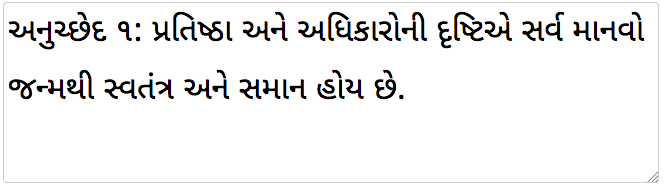
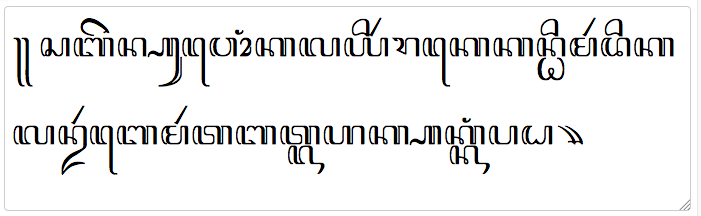
javanese new

Changed region(s): [[0.0, 0.0, 0.994, 0.8065], [0.0, 0.914, 0.994, 0.9946]]

diff --git a/javanese/help/index.html b/javanese/help/index.html
@@ -2,7 +2,7 @@
 <html lang="en-gb">
 <head>
 <meta charset="UTF-8" />
-<title>Help for Gujarati character picker 20</title>
+<title>Help for Javanese character picker 20</title>
 <link rel="stylesheet" href="../../../shared/style/docs.css" type="text/css" />
 <link rel="stylesheet" type="text/css" href="../../shared20/style.css" />
 <link rel="stylesheet" type="text/css" href="../localstyle.css" />
@@ -13,7 +13,7 @@
 <body class="app notes">
 <header>
   <div id="header-boilerplate"></div>
-  <script>document.getElementById('header-boilerplate').innerHTML = bp_appHeader('/shared/images/world.gif','Gujarati picker','');</script> 
+  <script>document.getElementById('header-boilerplate').innerHTML = bp_appHeader('/shared/images/world.gif','Javanese picker','');</script> 
 </header>
 
 
@@ -25,16 +25,16 @@
   <div id="toc"><!-- placeholder --></div>
   <div class="noprint">
         <h2 class="notoc"><a id="links" tabindex="5">Related links</a></h2>
-        <p><a href="/scripts/links?script=gujarati">Gujarati script links</a></p>
+        <p><a href="/scripts/links?script=javanese">Javanese script links</a></p>
         <p><a href="/pickers/">List of pickers </a></p>
   </div>
 </aside>     
 
-<p id="status">Updated  <!-- #BeginDate format:En2 -->16-Aug-2017<!-- #EndDate --> • tags <a href="http://rishida.net/blog/?tag=apps" title="Show all blog posts tagged with 'apps'">apps</a>, <a href="http://rishida.net/blog/?tag=pickers" title="Show all blog posts tagged with 'pickers'">pickers</a>, <a href="http://rishida.net/blog/?tag=gujarati" title="Show all blog posts tagged with 'gujarati'">gujarati</a></p>
+<p id="status">Updated  <!-- #BeginDate format:En2 -->24-Aug-2017<!-- #EndDate --> • tags <a href="http://rishida.net/blog/?tag=apps" title="Show all blog posts tagged with 'apps'">apps</a>, <a href="http://rishida.net/blog/?tag=pickers" title="Show all blog posts tagged with 'pickers'">pickers</a>, <a href="http://rishida.net/blog/?tag=javanese" title="Show all blog posts tagged with 'javanese'">javanese</a></p>
 
 
-<p>This Unicode character picker allows you to produce or analyse runs of Gujarati text. Character pickers are especially useful for people who don't know a script well, as characters are displayed in ways that aid identification.</p>
-<p>If something is broken or missing <a target="_blank" style="font-size:110%;" href="https://github.com/r12a/pickers/issues/new?title=[gujarati%20picker]%20%20ADD%20TITLE%20HERE">raise an issue</a>. For version information see <a  target="_blank" style="font-size:110%;" href="https://github.com/r12a/pickers/commits/gh-pages/gujarati">the Github commit list</a>.</p>
+<p>This Unicode character picker allows you to produce or analyse runs of Javanese text. Character pickers are especially useful for people who don't know a script well, as characters are displayed in ways that aid identification.</p>
+<p>If something is broken or missing <a target="_blank" style="font-size:110%;" href="https://github.com/r12a/pickers/issues/new?title=[javanese%20picker]%20%20ADD%20TITLE%20HERE">raise an issue</a>. For version information see <a  target="_blank" style="font-size:110%;" href="https://github.com/r12a/pickers/commits/gh-pages/javanese">the Github commit list</a>.</p>
 
 
 <section id="basics">
@@ -45,7 +45,7 @@
 <p><b class="leadin">Sample text.</b> If you want to add some sample text to the text area, click on the <img src="../../images/sample.png" alt="plus sign"/> icon.</p>
 
 <p><b class="leadin">Fonts.</b>
-  To properly display the text you will need to choose a font that is loaded on your system or device, or use the web font downloaded with the page (Noto Sans Gujarati). The font list contains fonts that can be found on the Mac  and Windows, as well as Google Noto and other fonts. See more information about <a href="/scripts/fontlist/#gujarati" target="_blank">standard OS fonts in Mac and Windows</a>.</p>
+  To properly display the text you will need to choose a font that is loaded on your system or device, or use the web font downloaded with the page (Noto Sans Javanese). The font list contains fonts that can be found on the Mac  and Windows, as well as Google Noto and other fonts. See more information about <a href="/scripts/fontlist/#javanese" target="_blank">standard OS fonts in Mac and Windows</a>.</p>
 
 <p><b class="leadin">Mobile devices.</b>
 When working on an iPad or similar device, you should turn off<code class="kw" translate="no"> Autofocus</code> (just below the text area). This prevents the keyboard popping up after you input every character.  You may also need to select a character twice to add it to the output field.</p>
@@ -53,7 +53,7 @@ When working on an iPad or similar device, you should turn off<code class="kw" t
 
 <section id="about">
 <h2 href="#about">About the chart</h2>
-      <p>Includes characters in the Unicode <a href="/uniview/?block=gujarati" target="_blank">Gujarati</a> block.     </p>
+      <p>Includes characters in the Unicode <a href="/uniview/?block=javanese" target="_blank">Javanese</a> block.     </p>
       <p>All text is output in Unicode normalisation form NFC by default.  You can change to NFD or no normalisation by clicking on the buttons in the yellow area. Note that normalization only takes place when you click on a character - text pasted into the box won't be normalised until you click on another character above, or click on a button in the yellow area.</p>
 </section>
 
@@ -62,15 +62,16 @@ When working on an iPad or similar device, you should turn off<code class="kw" t
 <section id="help">
 <h2 href="#help">Select the thing you want help with</h2>
 <map name="helpSelector">
-  <area shape="rect" coords="13,69,676,107" href="#top_controls" />
-  <area shape="rect" coords="12,109,673,295" href="#text_area" />
-  <area shape="rect" coords="12,307,668,376" href="#secondary_output" />
-  <area shape="rect" coords="-3,386,19,505" href="#input_aids" />
-  <area shape="rect" coords="21,389,373,410" href="#character_names" />
-  <area shape="rect" coords="562,385,675,408" href="#autofocus" />
-  <area shape="rect" coords="20,411,665,693" href="#buttons" />
-  <area shape="rect" coords="12,696,668,745" href="#yellow_controls" />
-  <area shape="rect" coords="11,745,615,807" href="#more_controls" />
+  <area shape="rect" coords="4,64,704,106" href="#top_controls" />
+  <area shape="rect" coords="11,105,703,314" href="#text_area" />
+  <area shape="rect" coords="15,318,696,395" href="#secondary_output" />
+  <area shape="rect" coords="-3,406,19,525" href="#input_aids" />
+  <area shape="rect" coords="25,409,377,430" href="#character_names" />
+  <area shape="rect" coords="587,405,700,428" href="#autofocus" />
+  <area shape="rect" coords="30,435,674,800" href="#buttons" />
+  <area shape="rect" coords="25,805,681,888" href="#shape_selector" />
+  <area shape="rect" coords="30,889,686,938" href="#yellow_controls" />
+  <area shape="rect" coords="26,936,630,998" href="#more_controls" />
 </map>
 <p><img usemap="#helpSelector" alt="Help selector." src="images/selector.png"/></p>
 
@@ -88,7 +89,8 @@ When working on an iPad or similar device, you should turn off<code class="kw" t
   <h3 href="#buttons">Selection area</h3>
   <p><img src="images/selection_area.png" alt=""/></p>
   <p>Click on characters or buttons in this area to add them to the  text area above.</p>
-  <p>Characters are arranged based on the use of the script in order to speed up picking. Independent vowels are to the left. To their right, consonants are in a traditional Indian articulatory arrangement, and combining characters that need to come before a vowel are found at the bottom of the consonant table. (The virama is to the right of that group, under a couple of common conjuncts.) Vowels signs are next, aligned with the independent vowels. To the right are digits in keypad order. </p>
+  <p>Characters are arranged based on the use of the script in order to speed up picking. Independent vowels are to the left. To their right, consonants conform to an essentially Indian articulatory arrangement, with murda characters alongside standard forms, and mahaprana letters along the bottom row. The pangkon is to the left of the consonants, in its own column. To the right of the consonants is a column containing medials (near the top) and final consonant diacritics (lower down); then a column of vowel signs; another for punctuation; and finally a set of digits.</p>
+  <p>Also included in this picker is an <samp style="border-radius: 5px; background-color: gray; color:white; padding: 2px;">SS</samp> shift button. If you click on this the consonant table is replaced by a table of subjoined/conjoined forms, in the same arrangement. This may be useful for spotting shapes. When you click on these, a prangkon is automatically inserted into the text area – there is no need to click on that separately.</p>
 </section>
 
 
@@ -101,19 +103,19 @@ When working on an iPad or similar device, you should turn off<code class="kw" t
       <p><b class="leadin">Copy, select, delete, etc. (<img src="../../images/copy_etc.png" style="vertical-align:middle;" alt=""/>).</b> The icons on the left above the input box allow you (listing them from left to right) to copy the text to the clipboard, select the text,  delete it, generate a URL to share with others that will reproduce for them what you see in the text box, add some sample text to the text area, and open this help file.</p>
       <p><b class="leadin">Show codepoints.</b> Produces a list of the Unicode code points in the input box. You can usually follow a link from a code point item to more detailed information about that character.</p>
       <p><b class="leadin">Convert to escapes.</b> Opens a new window for the converter app, which shows various different ways of representing the text in the input box using escapes.</p>
-    <p><b class="leadin">Make example.</b> This may be useful to speed up the creation of examples. You can create an example with four parts, delimited by /, in the following order: [1] Gujarati text, [2] transliteration, [3] IPA transcription, [4] meaning. You don't need to add all four elements, but if you want to skip one in the middle of the sequence, use nothing between the slashes.</p>
+    <p><b class="leadin">Make example.</b> This may be useful to speed up the creation of examples. You can create an example with four parts, delimited by /, in the following order: [1] Javanese text, [2] transliteration, [3] IPA transcription, [4] meaning. You don't need to add all four elements, but if you want to skip one in the middle of the sequence, use nothing between the slashes.</p>
        <p>For example, the following:</p>
-      <p><span lang="gu">રંગ</span>/raṃg/rǝŋɡ/colour</p>
+      <p><span lang="jv">ꦥꦼꦠꦼꦁ</span>/peteng//dark</p>
       <p>will produce:</p>
-      <p style="text-align:left; text-justify:auto;"><code>&lt;span class=&quot;charExample&quot;&gt;&lt;span class=&quot;ex&quot; lang=&quot;gu&quot;&gt;<span lang="gu">રંગ</span>&lt;/span&gt; &lt;span class=&quot;trans&quot;&gt;raṃg&lt;/span&gt; &lt;span class=&quot;ipa&quot;&gt;rǝŋɡ&lt;/span&gt; &lt;span class=&quot;meaning&quot;&gt;colour&lt;/span&gt;&lt;/span&gt;</code></p>
-      <p>To get just the gujarati and the meaning you would use:</p>
-       <p><span lang="gu">રંગ</span>///colour</p>
+      <p style="text-align:left; text-justify:auto;"><code>&lt;span class=&quot;charExample&quot;&gt;&lt;span class=&quot;ex&quot; lang=&quot;jv&quot;&gt;<span lang="jv">ꦥꦼꦠꦼꦁ</span>&lt;/span&gt; &lt;span class=&quot;trans&quot;&gt;peteng&lt;/span&gt; &lt;span class=&quot;meaning&quot;&gt;dark&lt;/span&gt;&lt;/span&gt;</code></p>
+      <p>To get just the javanese and the meaning you would use:</p>
+       <p><span lang="jv">ꦥꦼꦠꦼꦁ</span>///dark</p>
        
       
       <p><b class="leadin">Character markup.</b> This may be useful to speed up the creation of markup for a specific character or set of characters. Select one or more characters in the text area, then click this button.  It will return something like the following for each of the characters:</p>
-      <p style="text-align:left; text-justify:auto;"><code>&lt;span class=&quot;codepoint&quot;&gt;&lt;span lang=&quot;gu&quot;&gt;&amp;#x0A8A;&lt;/span&gt; [&lt;span class=&quot;uname&quot;&gt;U+0A8A GUJARATI LETTER UU&lt;/span&gt;]&lt;/span&gt;</code></p>
+      <p style="text-align:left; text-justify:auto;"><code>&lt;span class=&quot;codepoint&quot;&gt;&lt;span lang=&quot;jv&quot;&gt;&amp;#xA9D3;&lt;/span&gt; [&lt;span class=&quot;uname&quot;&gt;U+A9D3 JAVANESE DIGIT THREE&lt;/span&gt;]&lt;/span&gt;</code></p>
       <p>When you add it to your document, it will look like this.</p>
-      <p><span class="codepoint"><span lang="gu">&#x0A8A;</span> [<span class="uname">U+0A8A GUJARATI LETTER UU</span>]</span></p>
+      <p><span class="codepoint"><span lang="jv">&#xA9D3;</span> [<span class="uname">U+A9D3 JAVANESE DIGIT THREE</span>]</span></p>
 </section>
 
 <section>
@@ -141,7 +143,9 @@ When working on an iPad or similar device, you should turn off<code class="kw" t
     <p><img src="images/input_aids.png" style="float:left; margin-right:1em; " alt=""/></p>
     <p>The vertical grey bar to the left allows you to turn on/off a number of panels that can help create the text you want.</p>
     <p><b class="leadin">Default.</b> Turns off all input aids and closes all panels.</p>
-      <p><b class="leadin">Hinting.</b> Changes the selection area so that, when you mouse over a character, characters that are similar in appearance, and may be easily confused, are automatically highlighted. This can be particularly useful for people who are not familiar with the script, to avoid confusing similar characters, or to find the right character when two or more look similar.    </p>
+    <p><b class="leadin" id="shape_selector">Shape lookup.</b> This adds a row of orange characters that represent basic shapes associated with the Javanese characters. When you click on a picture, characters that incorporate that shape are highlighted, and also appear below the line of orange characters. Click on these characters to add them to the output. This is particularly helpful for those who don't know the script at all and want to pick characters based on their shape, or for those times when you just can't find the character you want and need a hint.</p>
+	<p style="text-align: center;"><img src="images/shape_selector.png" alt=""/></p>
+    <p> Each of the orange keys are chosen to represent a shape that appears on the left side of a Javanese consonant letter. The shapes grouped under 'Other' are a mixed bag of characters that didn't fit elsewhere.</p>
     <p><b class="leadin">Latin characters.</b> Displays a panel of lowercase Latin characters you are likely to need for  transcription. Click on them to add them to the text area.</p>
 </section>
 
@@ -166,8 +170,8 @@ When working on an iPad or similar device, you should turn off<code class="kw" t
 </section>
 </section>
 
-<div class="smallprint">Latest commit <a href="https://github.com/r12a/pickers/commits/gh-pages/gujarati/help"><!-- #BeginDate format:En2 -->16-Aug-2017<!-- #EndDate --></a>. 
-Make a <a href="https://github.com/r12a/pickers/issues/new?title=[gujarati%20help]%20%20ADD%20TITLE%20HERE">comment</a>.
+<div class="smallprint">Latest commit <a href="https://github.com/r12a/pickers/commits/gh-pages/javanese/help"><!-- #BeginDate format:En2 -->24-Aug-2017<!-- #EndDate --></a>. 
+Make a <a href="https://github.com/r12a/pickers/issues/new?title=[javanese%20help]%20%20ADD%20TITLE%20HERE">comment</a>.
 Licence <a rel="license" href="http://creativecommons.org/licenses/by/4.0/">CC-By</a> © <a href="mailto:r12a@w3.org">r12a</a>.</div>
 </body>
 <script type="text/javascript">

diff --git a/javanese/index.html b/javanese/index.html
@@ -44,70 +44,40 @@
 
 <div id="latintranscript" class="transcript" style="display:none;">
 <span class="t" onclick="dotrans('a')">a</span>
-<span class="t" onclick="dotrans('ā')">ā</span>
-<span class="t" onclick="dotrans('ai')">ai</span>
-<span class="t" onclick="dotrans('au')">au</span>
 <span class="t" onclick="dotrans('e')">e</span>
-<span class="t" onclick="dotrans('ǝ')">ǝ</span>
-<span class="t" onclick="dotrans('ɛ')">ɛ</span>
+<span class="t" onclick="dotrans('é')">é</span>
+<span class="t" onclick="dotrans('ə')">ə</span>
 <span class="t" onclick="dotrans('i')">i</span>
-<span class="t" onclick="dotrans('ī')">ī</span>
 <span class="t" onclick="dotrans('o')">o</span>
 <span class="t" onclick="dotrans('ɔ')">ɔ</span>
-<span class="t" onclick="dotrans('r̥')">r̥</span>
 <span class="t" onclick="dotrans('u')">u</span>
-<span class="t" onclick="dotrans('ū')">ū</span>
-<span class="t" onclick="dotrans('ʋ')">ʋ</span>
 <span class="t" onclick="dotrans('b')">b</span>
-<span class="t" onclick="dotrans('bh')">bh</span>
-<span class="t" onclick="dotrans('bʰ')">bʰ</span>
 <span class="t" onclick="dotrans('c')">c</span>
-<span class="t" onclick="dotrans('ch')">ch</span>
 <span class="t" onclick="dotrans('d')">d</span>
-<span class="t" onclick="dotrans('dh')">dh</span>
-<span class="t" onclick="dotrans('dʱ')">dʱ</span>
-<span class="t" onclick="dotrans('ḍ')">ḍ</span>
-<span class="t" onclick="dotrans('ḍh')">ḍh</span>
+<span class="t" onclick="dotrans('d̪')">d̪</span>
 <span class="t" onclick="dotrans('ɖ')">ɖ</span>
-<span class="t" onclick="dotrans('ɖʱ')">ɖʱ</span>
 <span class="t" onclick="dotrans('ʤ')">ʤ</span>
-<span class="t" onclick="dotrans('ʤʱ')">ʤʱ</span>
-<span class="t" onclick="dotrans('f')">f</span>
-<span class="t" onclick="dotrans('k')">k</span>
-<span class="t" onclick="dotrans('kʰ')">kʰ</span>
-<span class="t" onclick="dotrans('g')">g</span>
-<span class="t" onclick="dotrans('gʱ')">gʱ</span>
 <span class="t" onclick="dotrans('ɡ')">ɡ</span>
 <span class="t" onclick="dotrans('h')">h</span>
+<span class="t" onclick="dotrans('j')">j</span>
+<span class="t" onclick="dotrans('k')">k</span>
 <span class="t" onclick="dotrans('l')">l</span>
-<span class="t" onclick="dotrans('ḷ')">ḷ</span>
 <span class="t" onclick="dotrans('m')">m</span>
-<span class="t" onclick="dotrans('ṃ')">ṃ</span>
 <span class="t" onclick="dotrans('n')">n</span>
-<span class="t" onclick="dotrans('ṇ')">ṇ</span>
-<span class="t" onclick="dotrans('ṅ')">ṅ</span>
-<span class="t" onclick="dotrans('ñ')">ñ</span>
+<span class="t" onclick="dotrans('ng')">ng</span>
+<span class="t" onclick="dotrans('ny')">ny</span>
 <span class="t" onclick="dotrans('ŋ')">ŋ</span>
-<span class="t" onclick="dotrans('ɳ')">ɳ</span>
+<span class="t" onclick="dotrans('ɲ')">ɲ</span>
 <span class="t" onclick="dotrans('p')">p</span>
-<span class="t" onclick="dotrans('ph')">ph</span>
 <span class="t" onclick="dotrans('r')">r</span>
 <span class="t" onclick="dotrans('s')">s</span>
-<span class="t" onclick="dotrans('ś')">ś</span>
-<span class="t" onclick="dotrans('ṣ')">ṣ</span>
-<span class="t" onclick="dotrans('ʃ')">ʃ</span>
 <span class="t" onclick="dotrans('t')">t</span>
-<span class="t" onclick="dotrans('tʰ')">tʰ</span>
-<span class="t" onclick="dotrans('th')">th</span>
-<span class="t" onclick="dotrans('ṭ')">ṭ</span>
-<span class="t" onclick="dotrans('ṭh')">ṭh</span>
+<span class="t" onclick="dotrans('t̪')">t̪</span>
 <span class="t" onclick="dotrans('ʈ')">ʈ</span>
-<span class="t" onclick="dotrans('ʈʰ')">ʈʰ</span>
+<span class="t" onclick="dotrans('th')">th</span>
 <span class="t" onclick="dotrans('ʧ')">ʧ</span>
-<span class="t" onclick="dotrans('ʧʰ')">ʧʰ</span>
-<span class="t" onclick="dotrans('v')">v</span>
+<span class="t" onclick="dotrans('w')">w</span>
 <span class="t" onclick="dotrans('y')">y</span>
-<span class="t" onclick="dotrans('̃')">̃</span>
 </div>
 </div>
 
@@ -195,29 +165,28 @@
               <td colspan="2"><span class="g"><span class="hint">c</span><span class="c">&#xA9C0;&#xA995;</span> <span class="c">&#xA9C0;&#xA996;</span></span></td>
               <td><span class="g"><span class="hint">j</span><span class="c">&#xA9C0;&#xA997;</span></span></td>
               <td><span class="g"><span class="hint">th</span><span class="c">&#xA9C0;&#xA99B;</span></span></td>
-              <td rowspan="2"><span class="g"><span class="hint">ɲ</span><span class="c">&#xA9C0;&#xA99A;</span><br/>
-                &nbsp;&nbsp; <span class="c">&#xA9C0;&#xA998;</span></span></td>
+              <td><span class="g"><span class="hint">ny</span><span class="c">&#xA9C0;&#xA99A;</span> <span class="c">&#xA9C0;&#xA998;</span></span></td>
             </tr>
             <tr>
               <td colspan="2"><span class="g"><span class="hint">t</span><span class="c">&#xA9C0;&#xA9A0;</span> <span class="c">&#xA9C0;&#xA9A1;</span></span></td>
               <td colspan="2"><span class="g"><span class="hint">d</span><span class="c">&#xA9C0;&#xA9A2;</span> <span class="c">&#xA9C0;&#xA99D;</span></span></td>
+              <td><span class="g"><span class="hint">n</span><span class="c">&#xA9C0;&#xA9A4;</span>
+              <span class="c">&#xA9C0;&#xA99F;</span></span></td>
             </tr>
             <tr>
               <td colspan="2"><span class="g"><span class="hint">p</span><span class="c">&#xA9C0;&#xA9A5;</span> <span class="c">&#xA9C0;&#xA9A6;</span></span></td>
               <td colspan="2"><span class="g"><span class="hint">b</span><span class="c">&#xA9C0;&#xA9A7;</span> <span class="c">&#xA9C0;&#xA9A8;</span></span></td>
-              <td rowspan="2"><span class="g"><span class="hint">n</span><span class="c">&#xA9C0;&#xA9A4;</span><br/>
-                <span class="c">&#xA9C0;&#xA99F;</span></span></td>
-            </tr>
-            <tr>
-              <td><span class="g"><span class="hint">y</span><span class="c">&#xA9C0;&#xA9AA;</span></span></td>
-              <td><span class="g"><span class="hint">l</span><span class="c">&#xA9C0;&#xA9AD;</span></span></td>
-              <td colspan="2"><span class="g"><span class="hint">r</span><span class="c">&#xA9C0;&#xA9AB;</span> <span class="c">&#xA9C0;&#xA9AC;</span></span></td>
-            </tr>
-            <tr>
-              <td colspan="2"><span class="g"><span class="hint">ss</span><span class="c">&#xA9C0;&#xA9B1;</span> <span class="c">&#xA9C0;&#xA9AF;</span></span></td>
-              <td><span class="g"><span class="hint">h</span><span class="c">&#xA9C0;&#xA9B2;</span></span></td>
-              <td><span class="g"><span class="hint">w</span><span class="c">&#xA9C0;&#xA9AE;</span></span></td>
               <td><span class="g"><span class="hint">m</span><span class="c">&#xA9C0;&#xA9A9;</span></span></td>
+            </tr>
+            <tr>
+              <td colspan="2"><span class="g"><span class="hint">y</span><span class="c">&#xA9C0;&#xA9AA;</span></span></td>
+              <td colspan="2"><span class="g"><span class="hint">l</span><span class="c">&#xA9C0;&#xA9AD;</span></span></td>
+              <td><span class="g"><span class="hint">r</span><span class="c">&#xA9C0;&#xA9AB;</span></span></td>
+            </tr>
+            <tr>
+              <td colspan="2"><span class="g"><span class="hint">s</span><span class="c">&#xA9C0;&#xA9B1;</span> <span class="c">&#xA9C0;&#xA9AF;</span></span></td>
+              <td colspan="2"><span class="g"><span class="hint">w</span><span class="c">&#xA9C0;&#xA9AE;</span></span></td>
+              <td><span class="g"><span class="hint">h</span><span class="c">&#xA9C0;&#xA9B2;</span></span></td>
             </tr>
             <tr>
               <td><span class="g"><span class="hint">s</span><span class="c">&#xA9C0;&#xA9B0;</span></span></td>

diff --git a/javanese/localstyle.css b/javanese/localstyle.css
@@ -46,12 +46,14 @@ td {
 	border: 1px dotted #ccc;
 	border-radius: 5px; 
 	vertical-align: middle;
+	line-height: 2;
 	}
 
 #punctuation {
 	padding-left: 15px;
 	padding-right: 10px;
 	vertical-align: middle;
+	line-height: 2.4;
 	}
 	
 #independentvowels {
